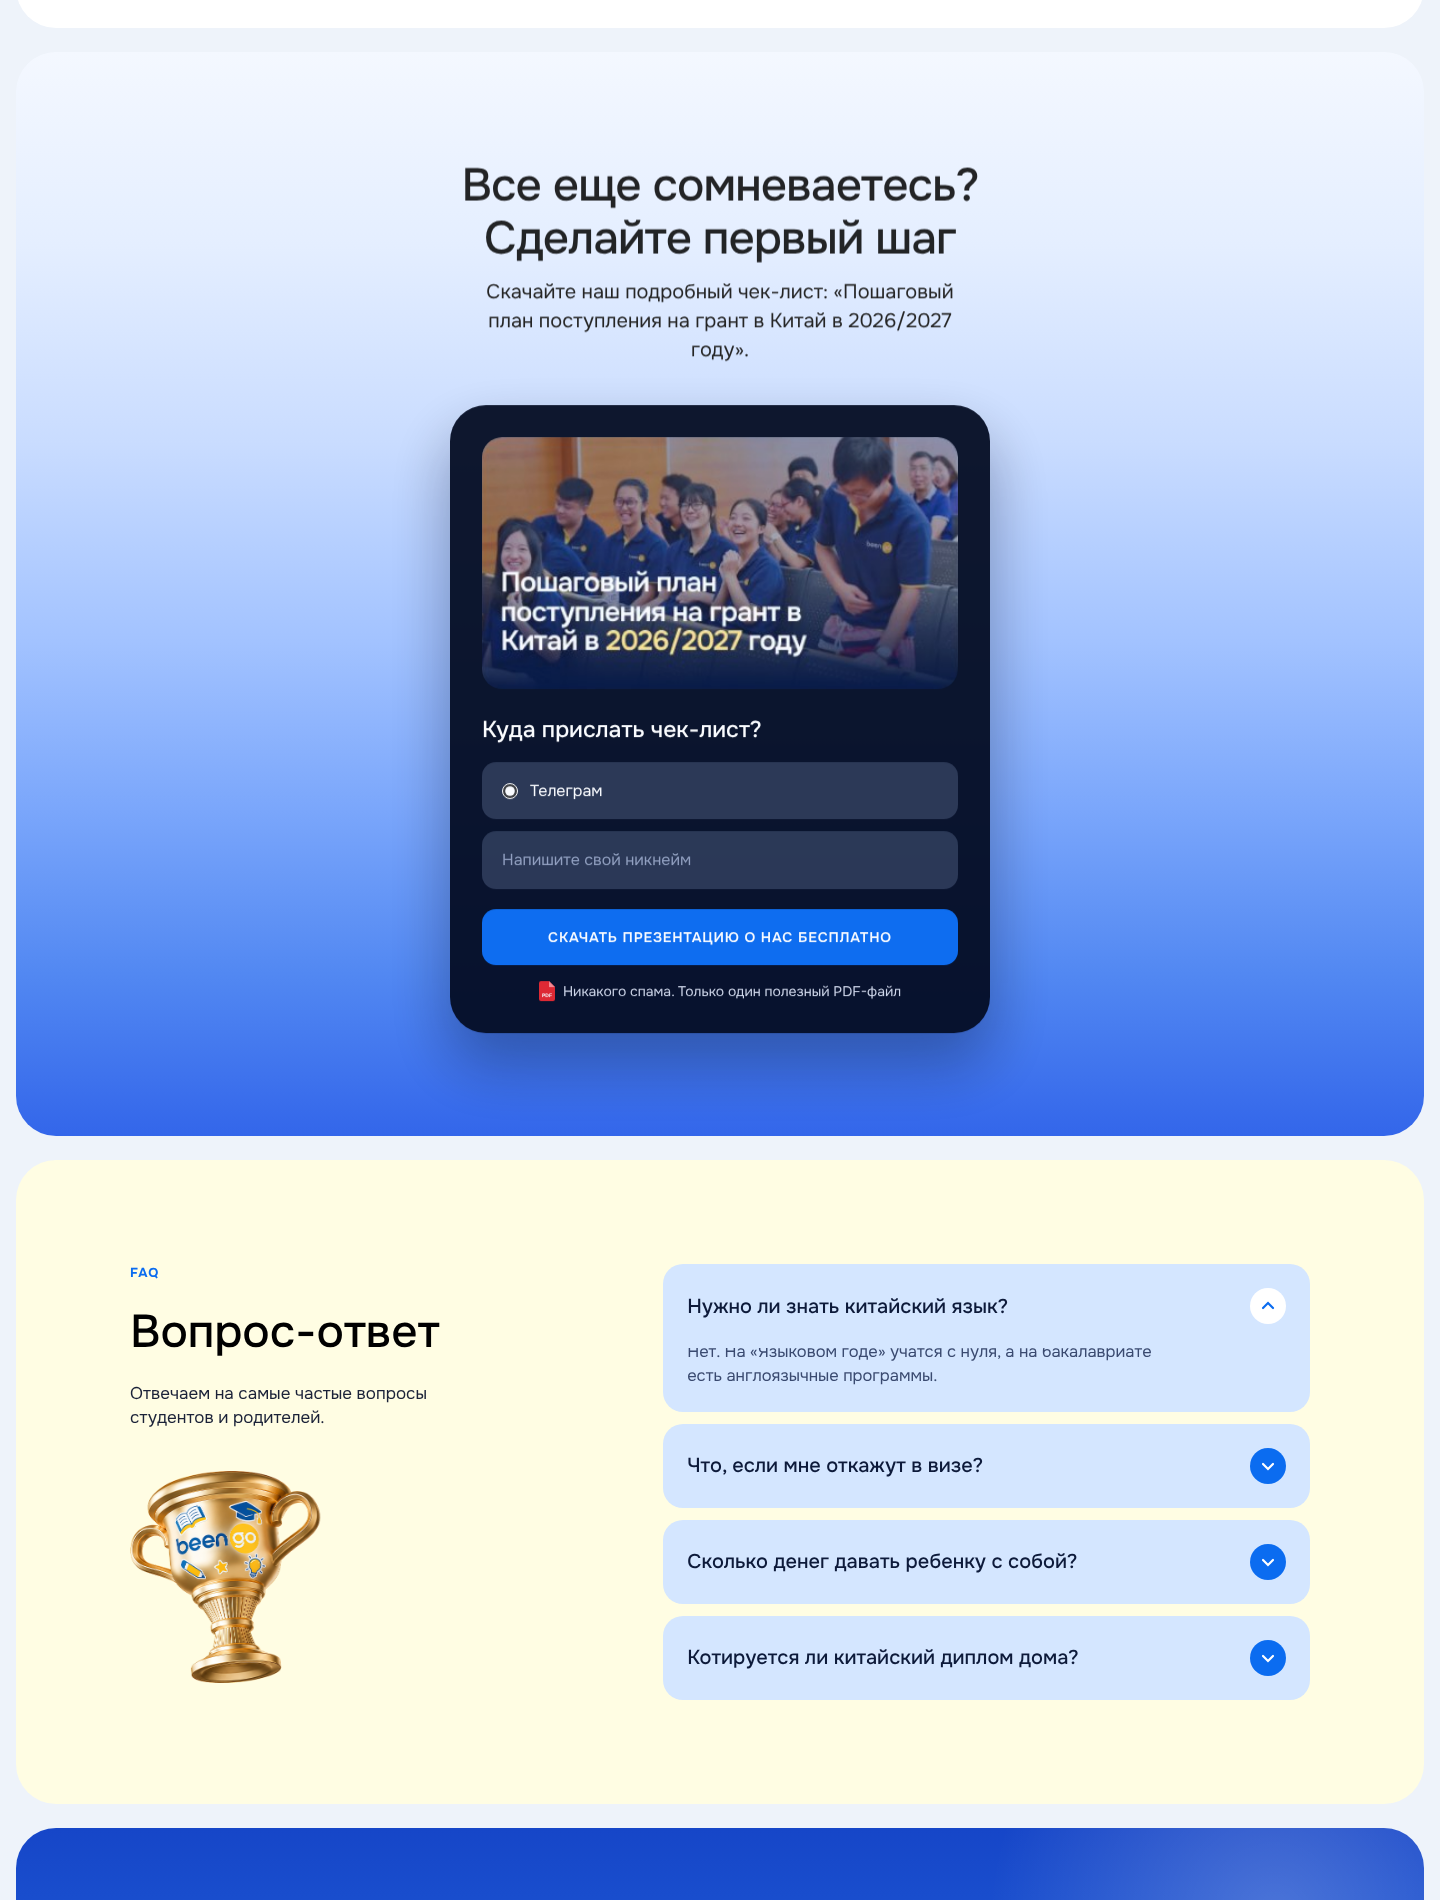
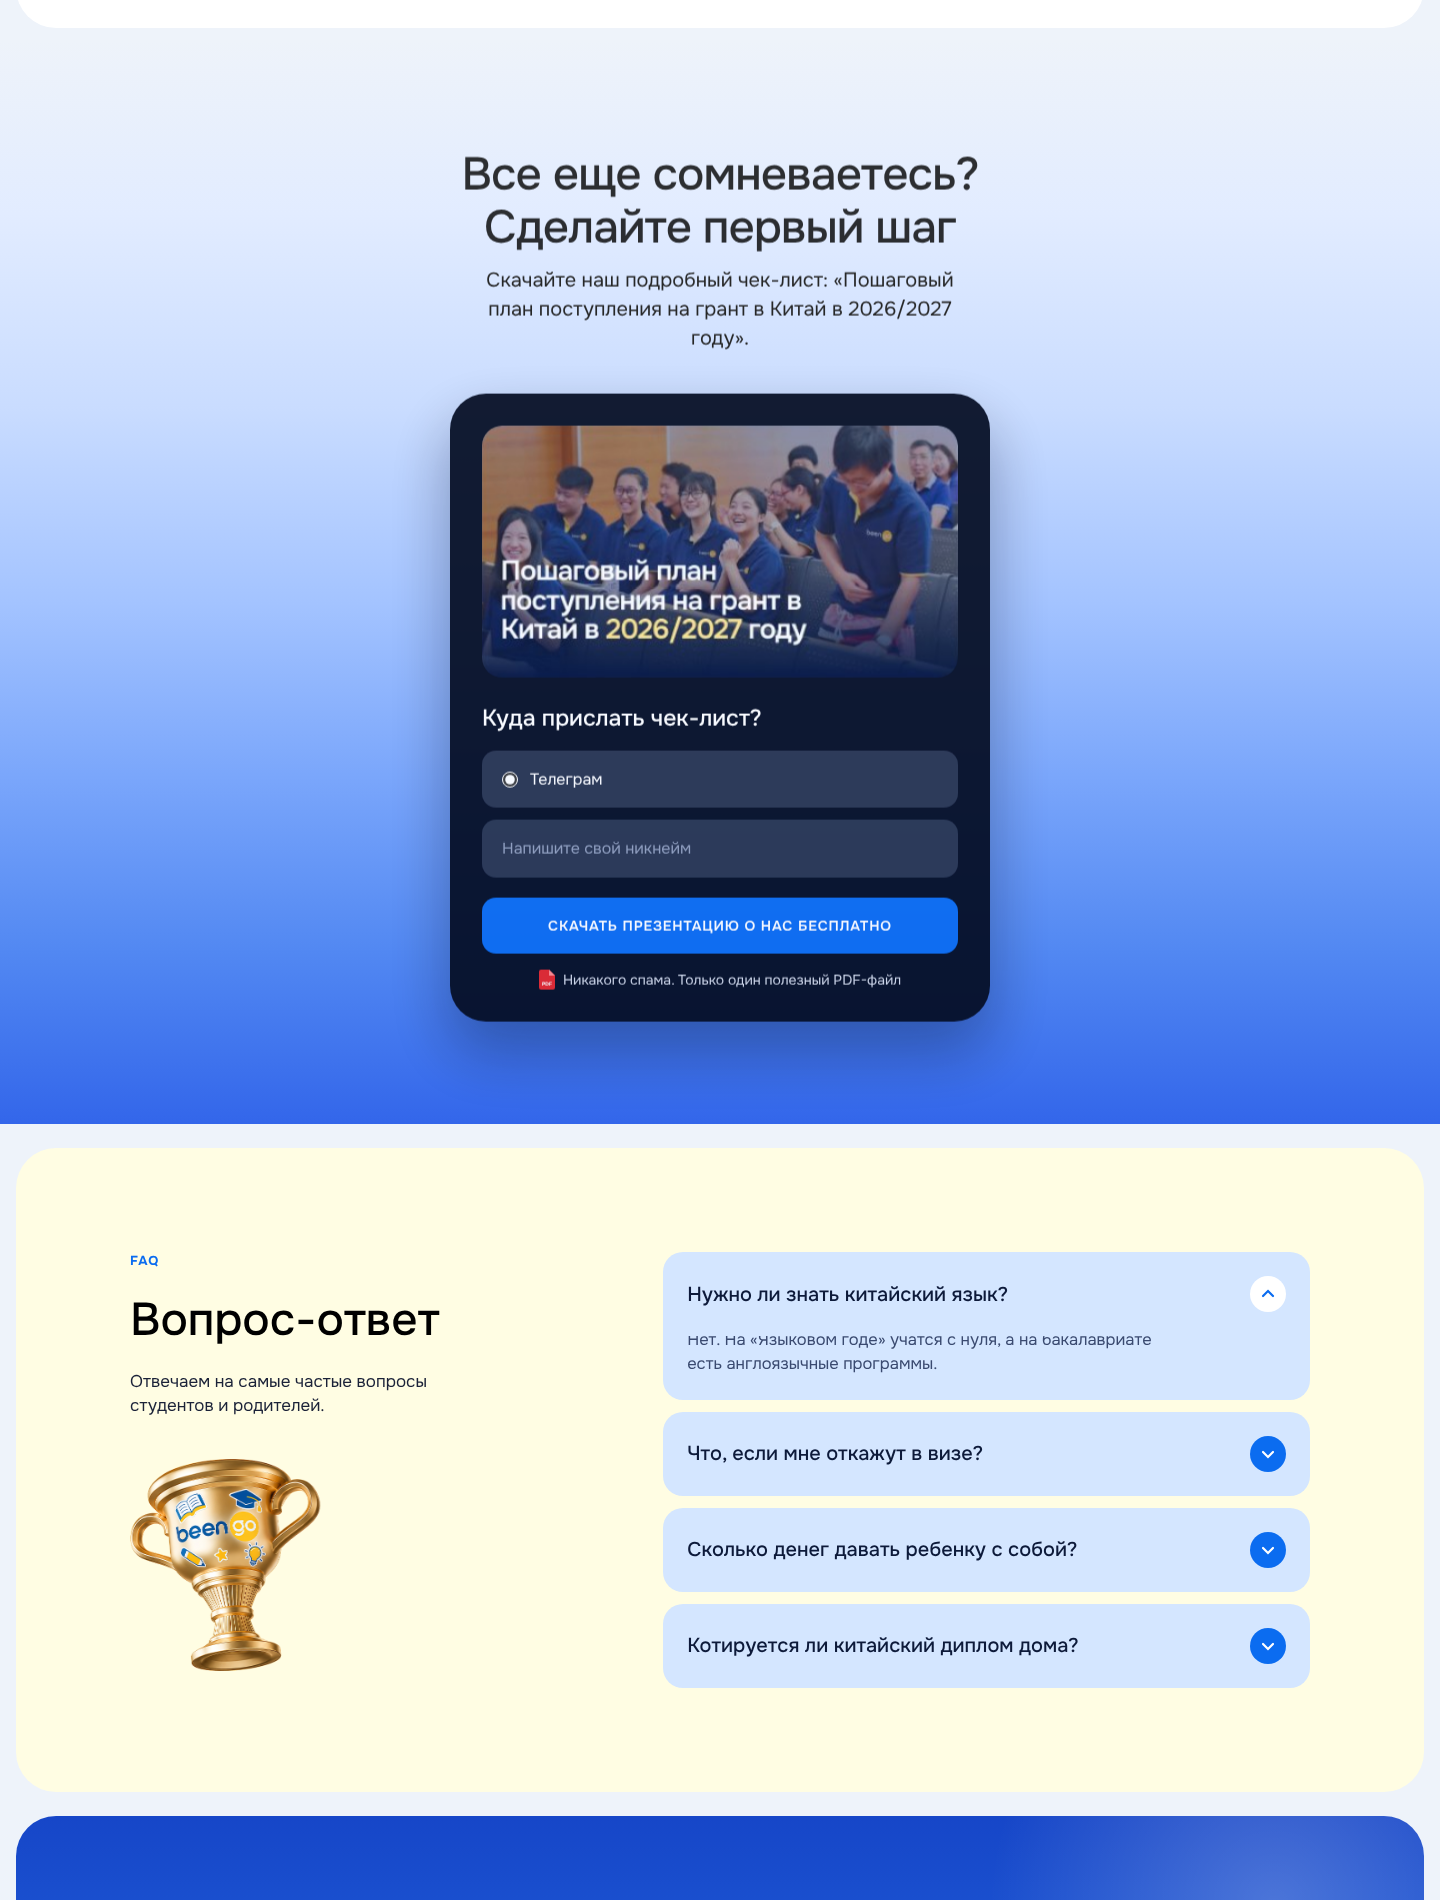
Checklist: full-width gradient without rounded frame
Claude-Session: https://claude.ai/code/session_01DveQThDXrjAqWsCdBVYsEN

diff --git a/index.html b/index.html
@@ -537,6 +537,12 @@ section{padding:var(--section) 0}
 
 /* Чек-лист: плавный градиент по всему блоку */
 .frame.checklist{background:linear-gradient(180deg,#f4f8ff 0%,#e4eeff 18%,#c9dcff 36%,#a3c3ff 54%,#7aa6fb 70%,#5288f2 85%,#3366ea 100%)}
+
+/* Чек-лист: без рамки и скругления, градиент на всю ширину, сверху сливается с фоном страницы */
+#checklist.sec{padding:0}
+.frame.checklist{width:100%;border-radius:0;background:linear-gradient(180deg,#eef3fa 0%,#e2ecff 16%,#c9dcff 34%,#a3c3ff 52%,#7aa6fb 68%,#5288f2 84%,#3366ea 100%)}
+#checklist + #faq.sec{padding-top:24px}
+@media (max-width:680px){.frame.checklist{width:100%;border-radius:0}#checklist + #faq.sec{padding-top:12px}}
 </style>
 </head>
 <body>
